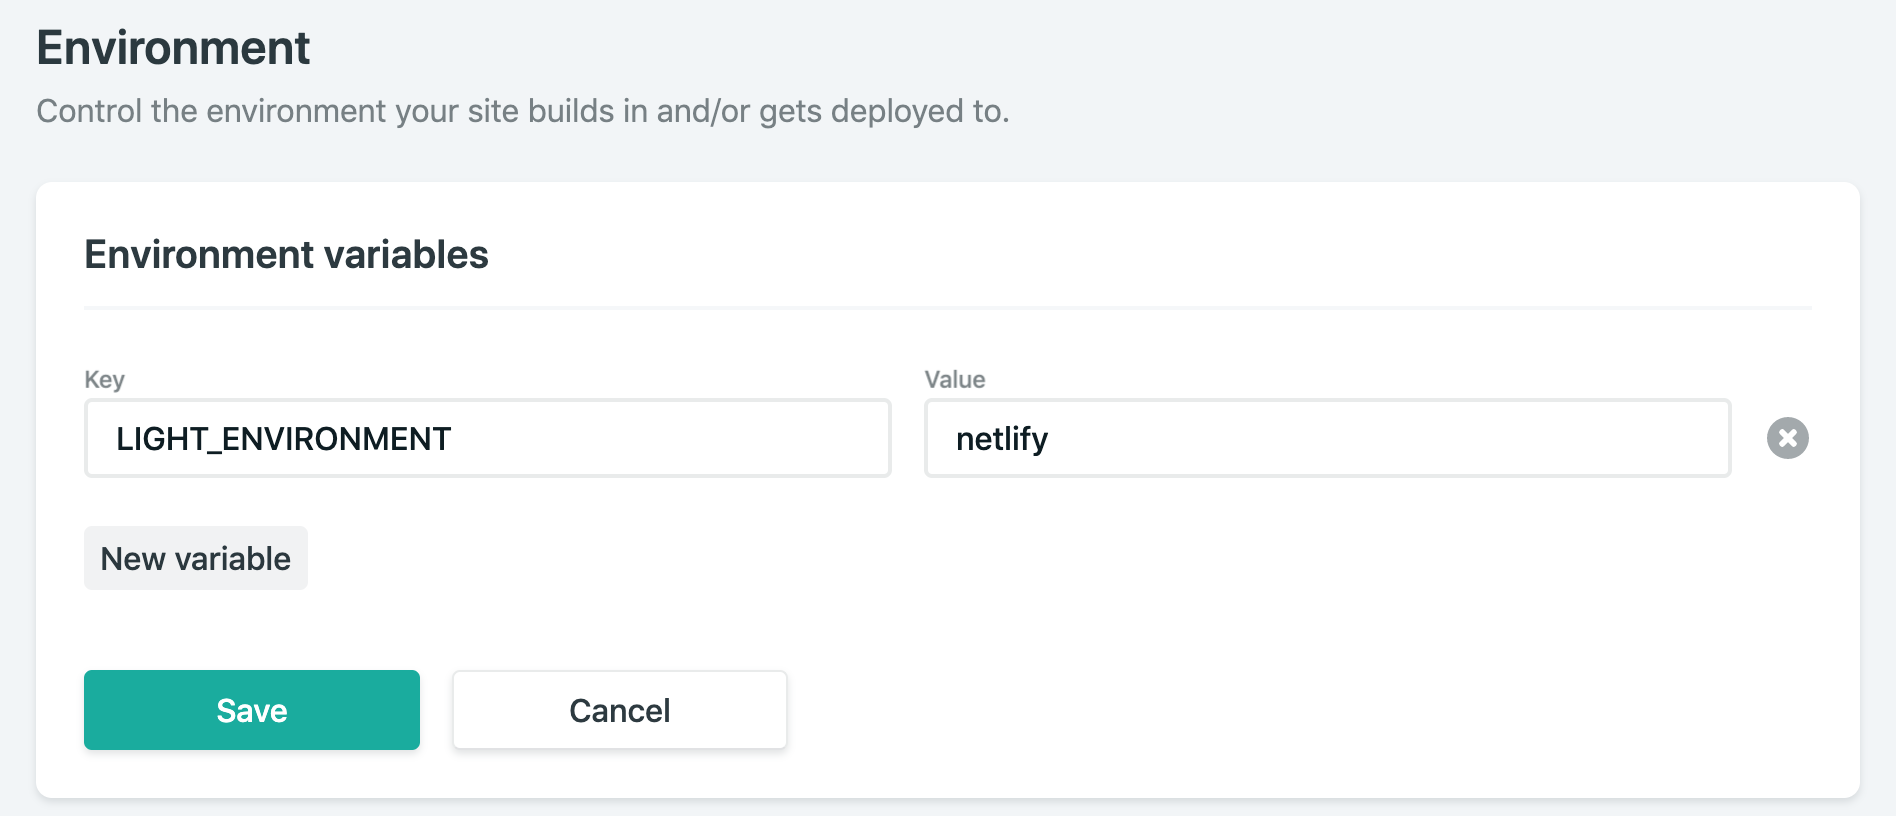
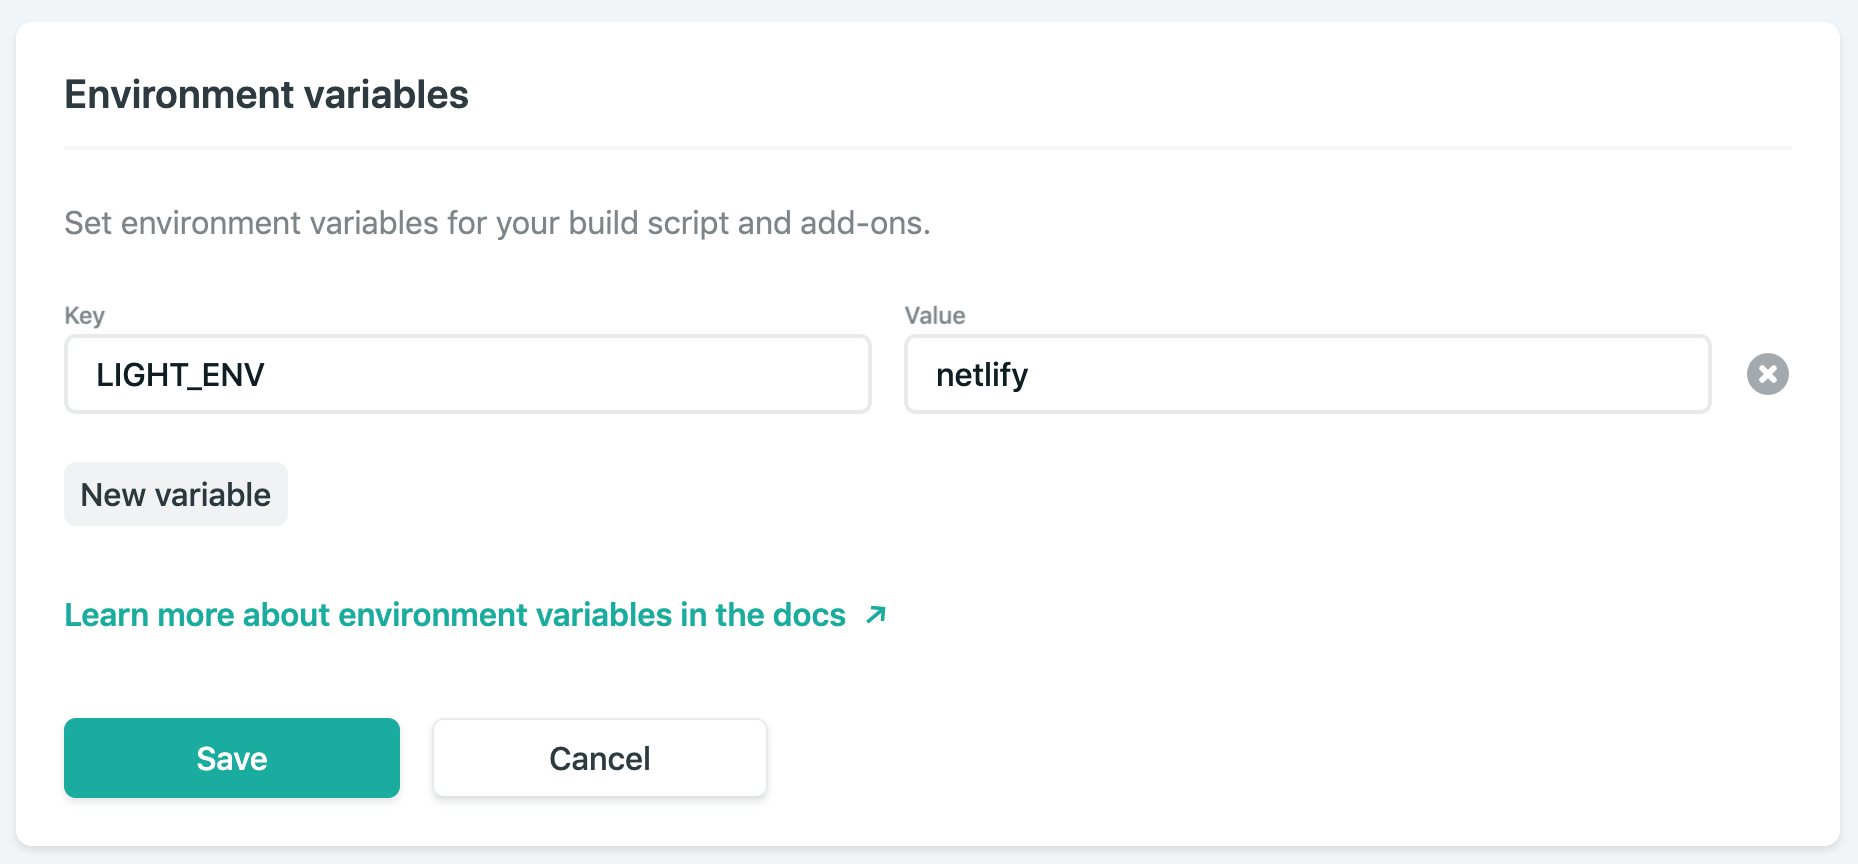
initial update of guides

diff --git a/website/src/pages/index.jsx b/website/src/pages/index.jsx
@@ -10,7 +10,6 @@ import CodeBlock from '../components/CodeBlock';
 export default class Index extends React.Component {
   state = {
     selectedDeploy: {},
-    featureTab: 'deploy',
     deployments: [
       {
         name: 'ZEIT Now',
@@ -75,7 +74,7 @@ export default class Index extends React.Component {
   }
 
   render() {
-    const { deployments, selectedDeploy, featureTab, selectedHeroText, heroText } = this.state;
+    const { deployments, selectedDeploy } = this.state;
     return (
       <div>
         <div className="w-full max-w-screen-xl relative mx-auto container pb-6 text-center">

diff --git a/guides/routes.md b/guides/routes.md
@@ -1,0 +1,51 @@
+---
+title: routes
+subtitle: the main entry point for your endpoints
+---
+
+## Introduction
+
+Every light route must export a class with a `handler` function (which can be an async function) which is responsible for handling request. The handler will receive have access to `this.req` (IncomingMessage) and `this.res` (ServerResponse) (these may vary between different environments).
+
+## Req/Res
+
+The `this.req` and `this.res` variables are standard IncomingMessage and ServerResponse objects. In some environments, properties may be added or missing. For example, in AWS/Netlify mode, the `this.req` object will be missing some request and response properties because they were casted from event and context. You should only use properties that you know are going to be available in production.
+
+## Return
+
+If you choose to `return` from the function (instead of `send`ing), you must return a valid response. Whatever value that is returned will be serialized and sent as a response. You can choose to return JSON, String, or any other type that [micro](https://github.com/zeit/micro) supports under the hood.
+
+```js
+const { light, Route } = require('light');
+
+class Index extends Route {
+  async handler() {
+    // this.req and this.res variables are available here
+
+    return {
+      hello: 'world',
+    };
+    // or
+    return 'hello world';
+  }
+}
+
+module.exports = light(Index);
+```
+
+## Send
+
+Additionally you may use `micro`'s send function to return different kinds of responses. The send function can be imported from light and used anywhere in the handler. See [micro's documentation](https://github.com/zeit/micro#sendres-statuscode-data--null) for more details.
+
+```js
+const { light, Route, send } = require('light');
+
+class Index extends Route {
+  async handler() {
+    send(res, 200, { hello: 'world' });
+  }
+}
+
+module.exports = light(Index);
+const { light, send } = require('light');
+```

diff --git a/guides/server-vs-serverless.md b/guides/server-vs-serverless.md
@@ -32,7 +32,7 @@ Serverless is a new term that many companies such as Zeit and AWS are pushing. T
 
 Some of the downsides include no websocket support, per execution costs (which may be very expensive if you handle millions of requests), and cold starts. Due to the sheer number of functions websites like AWS store, your function will be "cold" most of the time, and when a request is made, there is additional overhead involved in fetching the function from a datastore and running it. This can result in anywhere from 10ms-500ms of additional overhead. In addition, when you are using databases, every time your function is run, it has to reconnect to the external database.
 
-The point of light is to allow you to write code that works in both environment. That way you do not have to worry about switching around when required. If one day you can't handle the number of requests you are getting, you can switch to serverless in just minutes instead of days. Or if one day Serverless is becoming too expensive, you can spin up your own servers in minutes instead of days.
+The point of light is to allow you to write code that works in both environments. That way you do not have to worry about switching around when required. If one day you can't handle the number of requests you are getting, you can switch to serverless in just minutes instead of days. Or if one day Serverless is becomes too expensive, you can spin up your own servers in minutes instead of days.
 
 Serverless has its own benefits and drawbacks and you should only use it if it is right for your application.
 

diff --git a/guides/misc/apollo.md b/guides/misc/apollo.md
@@ -18,7 +18,7 @@ npm install apollo-server-micro graphql
 Once done, all you need to do is create a `graphql.js` file under the routes folder. Inside this, add the following starter code:
 
 ```js
-const light = require('light');
+const { light, Route } = require('light');
 const { ApolloServer, gql } = require('apollo-server-micro');
 
 const typeDefs = gql`
@@ -38,12 +38,12 @@ const resolvers = {
 const apolloServer = new ApolloServer({ typeDefs, resolvers });
 const graphqlHandler = apolloServer.createHandler();
 
-module.exports = light({
-  path: '/graphql',
-  method: ['GET', 'POST'],
-  handler: graphqlHandler,
-});
-
+class graphql extends Route {
+  async handler() {
+    return graphqlHandler(this.req, this.res);
+  }
+}
+module.exports = light(graphql);
 ```
 
 Most of the code that is provided is the starter code for Apollo. The only light related code is the `module.exports` at the bottom which simply tells light to run the following graphql handler when the route is `/graphql` with either GET (for the graphical interface) or POST (for the actual queries). *As always, if you are hosting on a serverless platform, you will need to point the route `/graphql` to this file.*

diff --git a/guides/query.md b/guides/query.md
@@ -14,20 +14,20 @@ If there are multiple query parameters with the same name, it will return an arr
 Simply import the `query` function and pass it the url of the request.
 
 ```javascript
-const { light, query } = require('light');
+const { light, Route, query } = require('light');
 
-module.exports = light({
-  path: '/',
-
-  async handler(req) {
-    const { id, name } = await query(req.url);
+class Index extends Route {
+  async handler() {
+    const { id, name } = await query(this.req.url);
 
     return {
       id,
       name,
     };
-  },
-});
+  }
+}
+
+module.exports = light(Index);
 ```
 
 After starting the dev server, you can make a request to [localhost:3000/?id=123&name=light](http://localhost:3000/?id=123&name=light) and expect a response of
@@ -39,4 +39,4 @@ After starting the dev server, you can make a request to [localhost:3000/?id=123
 }
 ```
 
-Note that by default all query parameters are strings, and you will need to convert them as necessary.
+Note that by default all query parameters are strings, and you will need to cast them as necessary.

diff --git a/guides/deployments/runkit.md b/guides/deployments/runkit.md
@@ -12,20 +12,21 @@ RunKit is a fun and dynamic website which lets you prototype your applications. 
 Simply create a new notebook and add the following code.
 
 ```js
-const light = require('light');
+const { light, Route } = require('light');
 
-process.env.LIGHT_ENVIRONMENT = 'runkit';
+process.env.LIGHT_ENV = 'runkit';
 
-module.exports = light({
-  path: '/',
-  async handler(req, res) {
+class Index extends Route {
+  async handler() {
     return {
       hello: 'world',
     };
-  },
-});
+  }
+}
+
+module.exports = light(Index);
 ```
 
-Then click the "run" button. It should print something like `Object {endpoint: function()}`. If you get that, then you are all set. Press the little "endpoint" button underneath the notebook title to see your project live.
+Then click the "run" button. It should print `Object {endpoint: function()}`. If you get that, then you are all set. Press the little "endpoint" button underneath the notebook title to see your project live.
 
 A demo of this functionality can be seen on the [home page](/).

diff --git a/guides/params.md b/guides/params.md
@@ -1,5 +1,5 @@
 ---
-title: Params
+title: params
 subtitle: use the params function to fetch information from the url
 ---
 
@@ -7,7 +7,9 @@ subtitle: use the params function to fetch information from the url
 
 The params function is a helper function to help extract parameters from URLs. While most frameworks such as express extract this on your behalf, it needs to be done explicitly since each environment has different way of getting the URL and the normalization step needs to happen first. Additionally, most of the time you do not need to have this step done so it is better to only have it done when needed. Finally, light's principle is to not assume anything and so this step needs to be explicit.
 
-**NOTE: some serverless providers (such as Netlify) do not support this feature.**
+**NOTE: some serverless providers (such as Netlify) do not support this feature as one file means one route.**
+
+## THIS DOC IS INCOMPLETE. IT WILL BE UPDATED WHEN ROUTING IS UPDATED
 
 ## Setup
 

diff --git a/guides/error-handling.md b/guides/error-handling.md
@@ -12,17 +12,18 @@ Error handling is done mostly by throwing a new Error. Each route is wrapped wit
 Simply import [`createError`](/docs/boom/create-error) and throw it at any point. createError will create a boom error resulting in a pretty JSON output.
 
 ```js
-const { light, createError } = require('light');
+const { light, Route, createError } = require('light');
 
-module.exports = light({
-  path: '/',
-  async handler(req, res) {
+class Index extends Route {
+  async handler() {
     throw createError(401, 'sorry, you cannot access this route');
     return {
       hello: 'world',
     };
-  },
-});
+  }
+}
+
+module.exports = light(Index);
 ```
 
 This will result in JSON which looks like this:

diff --git a/guides/middleware.md b/guides/middleware.md
@@ -25,17 +25,21 @@ const checkAuth = async (req, res) => {
 To include middleware in your route, simply add it as a property array.
 
 ```js
-const light = require('light');
+const { light, Route } = require('light');
 
-module.exports = light({
-  path: '/protected',
-  middleware: [ checkAuth ], // you can have multiple middleware
-  async handler(req) {
+class Index extends Route {
+  get middleware() {
+  return [ checkAuth ]; // you can have multiple middleware
+  }
+
+  async handler() {
     return {
-      isAuthenticated: req.isAuthenticated,
+      isAuthenticated: this.req.isAuthenticated,
     };
-  },
-});
+  }
+}
+
+module.exports = light(Index);
 ```
 
 ## Express and Koa Support

diff --git a/guides/plugins.md b/guides/plugins.md
@@ -28,15 +28,19 @@ As you can see, unlike middleware, with plugins we can run code both before and 
 Finally, we simply list the logger as plugin in the route.
 
 ```js
-const light = require('light');
+const { light, Route } = require('light');
 
-module.exports = light({
-  path: '/',
-  plugins: [ logger ],
-  async handler(req, res) {
+class Index extends Route {
+  get plugins() {
+  return [ logger ]; // you can have multiple plugins
+  }
+
+  async handler() {
     return {
       hello: 'world',
     };
-  },
-});
+  }
+}
+
+module.exports = light(Index);
 ```

diff --git a/guides/getting-started.md b/guides/getting-started.md
@@ -38,16 +38,17 @@ Once you've installed light, all `.js` files under the `routes` folder will be u
 To get started, populate `routes/index.js`.
 
 ```js
-const light = require('light');
+const { light, Route } = require('light');
 
-module.exports = light({
-  path: '/',
+class Index extends Route {
   async handler() {
     return {
       hello: 'world',
     };
-  },
-});
+  }
+}
+
+module.exports = light(Index);
 ```
 
 Run `npm run dev` to start the development server. You should see an output in your terminal similar to the one below.

diff --git a/guides/routing.md b/guides/routing.md
@@ -15,18 +15,7 @@ When in server mode, if a `path` is not specified, light will try to guess the r
 
 ## Declarative Routing
 
-When in server mode, you can define custom paths which will override the automatic routing.
-
-```js
-const light = require('light');
-
-module.exports = light({
-  path: '/posts', // your route here
-  async handler() {
-    // ...
-  },
-});
-```
+Coming soon! Please watch this [GitHub issue](https://github.com/ludicrousxyz/light/issues/25) for updates!
 
 ## Params
 
